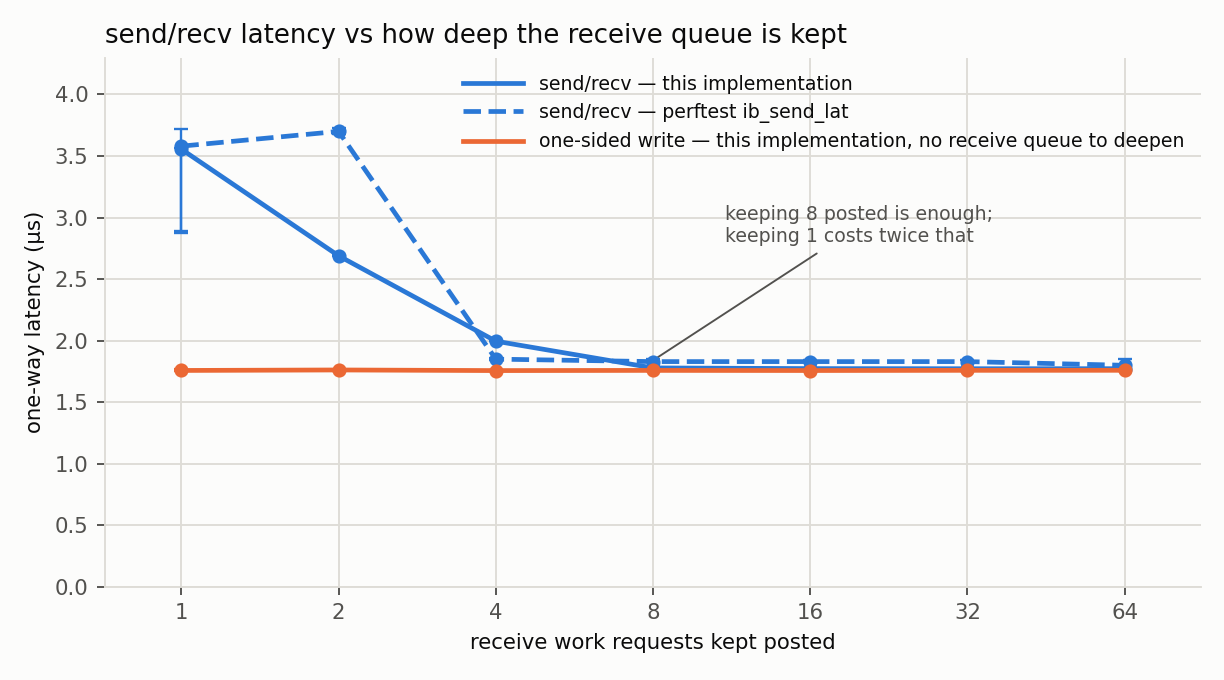
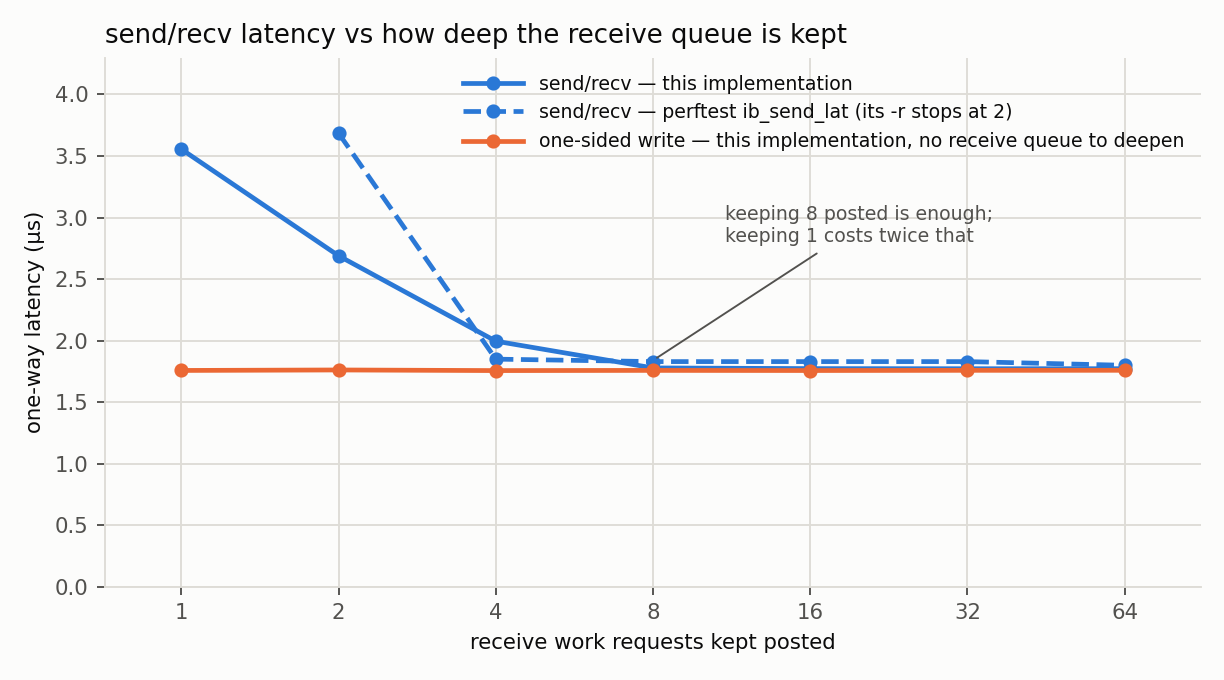
review phase1 result

diff --git a/scripts/plot_phase1.py b/scripts/plot_phase1.py
@@ -16,7 +16,6 @@ from collections import defaultdict
 import matplotlib
 matplotlib.use("Agg")
 import matplotlib.pyplot as plt
-from matplotlib.lines import Line2D
 from matplotlib.ticker import FuncFormatter
 
 CSV = sys.argv[1] if len(sys.argv) > 1 else "results/phase1_sweep.csv"
@@ -48,7 +47,15 @@ def load():
     for r in csv.DictReader(open(CSV)):
         if r["conn"] != "verbs":
             continue
-        key = (r["bench"], int(r["size"]), int(r["depth"] or 0))
+        depth = int(r["depth"] or 0)
+        # ib_send_lat rounds an odd -r up to the next even value before it runs
+        # ("WA for a bug when rx_depth is odd in SEND", perftest_parameters.c),
+        # so plot its points at the depth it actually used, not the one asked
+        # for. Confirmed on this link: -r 1 and -r 2 measure the same, as do
+        # 3 and 4, and 5 and 6.
+        if r["bench"] == "perftest_ib_send_lat" and depth % 2 == 1:
+            depth += 1
+        key = (r["bench"], int(r["size"]), depth)
         if r["median_us"]:
             # ours is a round trip, perftest already halved its own
             half = 1 if r["bench"].startswith("perftest") else 2
@@ -58,28 +65,16 @@ def load():
     return lat, bw
 
 
-def band(ax, xs, series, color, style, label, marker="o"):
-    """Median line with a min-max whisker at every point."""
-    med = [st.median(series[x]) for x in xs]
-    lo = [min(series[x]) for x in xs]
-    hi = [max(series[x]) for x in xs]
-    ax.errorbar(xs, med, yerr=[
-        [m - l for m, l in zip(med, lo)],
-        [h - m for m, h in zip(med, hi)],
-    ], color=color, linestyle=style, linewidth=2, marker=marker,
-        markersize=5, capsize=3, elinewidth=1, label=label, zorder=3)
-    return med
+def line(ax, xs, series, color, style, label):
+    """Median across repetitions. No error bar: run-to-run spread is under 1%
+    almost everywhere, and points were not all repeated the same number of
+    times, so a min-max whisker would have shown sample size more than noise."""
+    ax.plot(xs, [st.median(series[x]) for x in xs], color=color, linestyle=style,
+            linewidth=2, marker="o", markersize=5, label=label, zorder=3)
 
 
-def legend(ax, entries, **kw):
-    """errorbar hands the legend a short handle with a marker parked in the
-    middle of it, which hides the dash pattern — and dash vs solid is the only
-    thing separating this implementation from the reference. Draw the handles
-    explicitly instead."""
-    ax.legend(
-        handles=[Line2D([], [], color=c, linestyle=st_, linewidth=2, label=l)
-                 for c, st_, l in entries],
-        frameon=False, fontsize=8, handlelength=3.2, **kw)
+def legend(ax, **kw):
+    ax.legend(frameon=False, fontsize=8, handlelength=3.2, **kw)
 
 
 def dress(ax):
@@ -106,7 +101,7 @@ def fig_latency_vs_size(lat):
     ):
         series = {s: lat[(bench, s, 64)] for s in sizes if lat.get((bench, s, 64))}
         if series:
-            band(ax, sorted(series), series, color, style, label)
+            line(ax, sorted(series), series, color, style, label)
 
     ax.set_xscale("log", base=2)
     ax.set_yscale("log")
@@ -123,10 +118,7 @@ def fig_latency_vs_size(lat):
     ax.text(sizes[0] / 1.4, 0.52,
             "perftest sends messages this small inline; this implementation does not",
             fontsize=8, color=INK_2, va="bottom", ha="left")
-    legend(ax, [(BLUE, "-", "send/recv — this implementation"),
-                (BLUE, "--", "send/recv — ib_send_lat"),
-                (ORANGE, "-", "write — this implementation"),
-                (ORANGE, "--", "write — ib_write_lat")], loc="upper left")
+    legend(ax, loc="upper left")
 
     fig.tight_layout()
     out = f"{OUTDIR}/phase1-latency-vs-size.png"
@@ -141,19 +133,22 @@ def fig_latency_vs_rqdepth(lat):
     queue — the knob does not reach it, so those seven points are the same run
     repeated. That is worth plotting anyway: had the machine drifted during the
     sweep it would have moved too, so its flatness is what makes the drop in the
-    other two a real effect rather than an artefact."""
+    other two a real effect rather than an artefact.
+
+    The perftest line starts at 2 because its -r cannot be driven below that;
+    see the rounding note in load()."""
     SIZE = 4096
     depths = sorted({k[2] for k in lat if k[0] == "lat_send_recv" and k[1] == SIZE and k[2]})
 
     fig, ax = plt.subplots(figsize=(7.2, 4.0))
-    for bench, color, style in (
-        ("lat_send_recv", BLUE, "-"),
-        ("perftest_ib_send_lat", BLUE, "--"),
-        ("lat_rdma_write", ORANGE, "-"),
+    for bench, color, style, label in (
+        ("lat_send_recv", BLUE, "-", "send/recv — this implementation"),
+        ("perftest_ib_send_lat", BLUE, "--", "send/recv — perftest ib_send_lat (its -r stops at 2)"),
+        ("lat_rdma_write", ORANGE, "-", "one-sided write — this implementation, no receive queue to deepen"),
     ):
         series = {d: lat[(bench, SIZE, d)] for d in depths if lat.get((bench, SIZE, d))}
         if series:
-            band(ax, sorted(series), series, color, style, bench)
+            line(ax, sorted(series), series, color, style, label)
 
     ax.set_xscale("log", base=2)
     ax.set_xlabel("receive work requests kept posted")
@@ -168,10 +163,7 @@ def fig_latency_vs_rqdepth(lat):
     ax.annotate("keeping 8 posted is enough;\nkeeping 1 costs twice that",
                 xy=(8, 1.84), xytext=(11, 2.8), fontsize=8, color=INK_2,
                 arrowprops=dict(arrowstyle="-", color=INK_2, linewidth=0.8))
-    legend(ax, [(BLUE, "-", "send/recv — this implementation"),
-                (BLUE, "--", "send/recv — perftest ib_send_lat"),
-                (ORANGE, "-", "one-sided write — this implementation, no receive queue to deepen")],
-           loc="upper right")
+    legend(ax, loc="upper right")
 
     fig.tight_layout()
     out = f"{OUTDIR}/phase1-latency-vs-rq-depth.png"

diff --git a/README.md b/README.md
@@ -2,7 +2,7 @@
 
 A from-scratch implementation of RDMA communication primitives, transport abstractions, and collective operations — targeting the infrastructure layer of distributed AI training and inference systems.
 
-Built with `libibverbs` and `rdma_cm` (no wrappers, no frameworks), implementing two end-to-end workloads from raw verbs upward: a mini NCCL-style ring all-reduce and a vLLM-style remote KV cache (prefill via RDMA write, decode via RDMA read).
+Built with `libibverbs` and `rdma_cm` (no wrappers, no frameworks), implementing two end-to-end workloads from raw verbs upward: a ring all-reduce (chunked reduce-scatter then all-gather, the algorithm NCCL uses), and a remote memory pool handed out in fixed-size slots that clients fill by RDMA write and read back one-sidedly — the transfer path a disaggregated KV cache runs on.
 
 Tested on a real RDMA home lab: two ConnectX-4 NICs, RoCEv2, bare metal, connected back-to-back and isolated into separate network namespaces so each port behaves like an independent host.
 
@@ -11,7 +11,7 @@ Tested on a real RDMA home lab: two ConnectX-4 NICs, RoCEv2, bare metal, connect
 - [x] **Phase 1** — RDMA verbs foundation: RC queue pairs, memory regions, completion queues, send/recv, write, read. Connections come up either through librdmacm or through the INIT → RTR → RTS state machine written out by hand, selectable at runtime; the data path is shared. An earlier round used raw verbs only and had to abandon it — [`docs/raw-verbs-evolution.md`](docs/raw-verbs-evolution.md) is why, and why the hand-written path came back.
 - [x] **Phase 2** — Transport Abstraction Layer (RDMA + TCP backends via rdma_cm, send/recv + write benchmarks; TCP write omitted — no one-sided primitive)
 - [x] **Phase 3** — Ring All-Reduce (chunked pipeline, ring reduce-scatter + all-gather, RDMA + TCP backends)
-- [x] **Phase 4** — Remote KV Cache (slab allocator over single MR, ctrl/data plane separation, prefill via RDMA write, decode via RDMA read)
+- [x] **Phase 4** — Remote slot pool (slab allocator over a single MR; alloc/free on a control channel, data by one-sided write and read, so the server's CPU is not in the data path)
 - [ ] **Phase 5** — Bare-metal RoCEv2 benchmark (in progress). Re-running the Phase 1–4 benchmarks on real ConnectX-4 hardware over RoCEv2.
 
 ## Hardware & Test Environment
@@ -53,14 +53,17 @@ Step-by-step, and what each step is guarding against:
 ## Architecture
 
 ```
-common/            timing, logging, benchmark stats and CLI shared by every phase
+common/            timing, logging, benchmark stats; the CLI and config the
+                   Phase 1 benchmarks share
 phase1_verbs/      C. RC queue pairs, memory regions, send/recv/write/read, poll.
                    Two ways to bring a connection up — librdmacm, or the
                    INIT→RTR→RTS state machine by hand — behind one call shape.
 phase2_transport/  C++17. One Transport interface over RDMA and TCP backends.
 phase3_collective/ C++17. Ring all-reduce: chunked reduce-scatter + all-gather.
-phase4_kv_cache/   C++17. Slab-allocated remote KV store; prefill writes, decode reads.
-python_bindings/   pybind11 wrapper around Transport, torch.Tensor aware.
+phase4_kv_cache/   C++17. Slab allocator over one MR. Alloc/free control plane,
+                   one-sided data plane; the server is a passive target.
+python_bindings/   pybind11 wrapper around Transport. Registers any buffer-protocol
+                   object (numpy, torch) for RDMA without copying it.
 scripts/           bring-up, benchmark sweep, plotting.
 ```
 
@@ -98,31 +101,40 @@ the same send and receive path.
 
 ## Benchmark Results
 
-Median of five runs per point, with the equivalent perftest tool run at the
-same points on the same link. Latency is one-way throughout: these benchmarks
-report a round trip, perftest halves it before printing, so the two are
-normalised to match.
+Phase 1 only. Phases 2–4 have not been re-run on this hardware yet — that is
+what Phase 5 is.
+
+Median of at least five runs per point, with the equivalent perftest tool run
+at the same points on the same link. Latency is one-way throughout: these
+benchmarks time a round trip, perftest halves it before printing.
 
 - **Latency within 4% of perftest from 256 B up**, bandwidth within 2%
   wherever the link is the bottleneck.
-- **Receive queue depth doubles two-sided latency** — one work request posted
-  instead of eight costs 1.78 → 3.55 µs one-way. perftest degrades by the same
-  amount, so this is the hardware, not the implementation.
-- **One-sided is not the faster one** — 0–8%, and none of it at 1 MB. What it
-  buys is that the far side posts nothing and reaps nothing: CPU, not µs.
+- **Receive queue depth decides how often a slow path gets hit** — one work
+  request posted instead of eight costs 1.78 → 3.56 µs one-way. perftest moves
+  the same way, 1.83 → 3.69: this is the hardware, not the implementation.
+- **One-sided is not the faster one** — 3% at 64 B here, 9% for perftest, and
+  nothing at all by 1 MB. What it buys is that the far side posts no work
+  requests and reaps no completions: CPU, not µs.
 
 ### Receive queue depth
 
 ![latency vs receive queue depth](results/phase1-latency-vs-rq-depth.png)
 
 An arriving message needs a receive work queue entry before the NIC can place
-it. Keep only one posted and the NIC has to go fetch it, on the critical path,
-every time. Eight is enough; past that the curve is flat.
+it. With one posted the NIC often has to go fetch it while the packet is already
+arriving; with eight it almost never does. Past eight the curve is flat.
 
-The one-sided line is there as a check on the machine rather than a comparison
-— it posts no receive work requests, so this knob cannot reach it, and its
-flatness is what says the drop beside it is a real effect and not drift during
-the sweep.
+Nothing gets slower — you just hit the slow case more often. At depth 8 the p99
+is 3.60 µs — about what the median is at depth 1. One slow path, two
+frequencies. It is also why depth 1 is the only point whose median wobbles from
+run to run.
+
+perftest's `-r` rounds odd values up, so its line starts at 2.
+
+The one-sided line posts no receive work requests at all, so this knob cannot
+reach it, and its flatness is what says the drop beside it is a real effect
+rather than drift during the sweep.
 
 ### Latency and bandwidth against perftest
 
@@ -148,7 +160,7 @@ equivalently there, so that range is left out rather than claimed.
 ### Connection setup mode
 
 librdmacm and the hand-written INIT → RTR → RTS path are indistinguishable —
-3.54 vs 3.54 µs send/recv, 92.04 vs 92.03 Gbps — which is the expected answer,
+1.77 vs 1.77 µs send/recv, 92.04 vs 92.03 Gbps — which is the expected answer,
 since setup happens once, before the loop being timed. The result worth having
 is that the state machine is a drop-in for the library, not that it is quicker.
 
@@ -162,4 +174,5 @@ be an error in the measurement. The trail is in
 ## Toolchain
 
 - **OS**: Ubuntu 22.04 LTS
-- **Compiler**: GCC 7+, `-std=c11` (Phase 1), `-std=c++17` (Phase 2+)
+- **Compiler**: GCC 11.4, `-std=c11` (Phase 1), `-std=c++17` (Phase 2+)
+- **Build**: CMake 3.16+

diff --git a/docs/benchmark-notes.md b/docs/benchmark-notes.md
@@ -35,11 +35,12 @@ arriving message needs a receive WQE before the NIC can place the payload; with
 one just-posted WR the NIC has to fetch it from host memory, and that fetch sits
 on the critical path.
 
-Pre-posting a batch: **7.81 → 3.89 µs RTT**, within 5% of perftest.
+Pre-posting a batch: **7.81 → 3.89 µs RTT**, within about 5% of perftest.
 
 The confirmation was worth more than the fix. perftest exposes the same setting
 as `-r`, so it could be swept too — and it slows down by the same amount,
-1.85 → 3.57 µs one-way at depth 1. Whatever causes this sits below both
+1.83 → 3.69 µs one-way at the shallow end (its `-r` rounds odd values up, so
+two is as low as it goes). Whatever causes this sits below both
 programs, in the driver or the card. The one-sided write benchmark, which posts
 no receive work requests at all, does not move.
 
@@ -49,11 +50,12 @@ no receive work requests at all, does not move.
   traffic at that size — all pipeline fill, no steady state. Scaling so every
   point moves 256 MB moved perftest further than it moved this implementation
   (19.9 → 28.7 Gbps): the short window had been penalising the reference.
-- **perftest given `-t 16` to match `--depth 16`.** It pairs that with its own
-  `cq_mod = 100`, and 16 outstanding against a completion every hundred is a
-  corner it handles badly. Left at its own default it does 62 Gbps against this
-  implementation's 50 — it wins. Sub-16 KB bandwidth is now reported as not
-  comparable rather than as a result.
+- **perftest given `-t 16` to match `--depth 16`.** It pairs that setting with
+  its own `cq_mod = 100`, and sixteen writes outstanding against a completion
+  every hundred is a corner it handles badly. Run each at its own best instead —
+  perftest at its default depth, this implementation at its maximum of 127 — and
+  at 1 KB perftest does **71.2 Gbps against 62.9**. It wins by 13%. Sub-16 KB
+  bandwidth is now reported as not comparable rather than as a result.
 - **2.2% run-to-run spread, and one 64 KB point swinging 36%**, from a
   `schedutil` governor parking busy-waiting cores at 1.2 GHz. Small messages are
   message-rate bound, so that is exactly where it lands; large transfers are
@@ -82,14 +84,19 @@ perftest has the same barrier, with the reason in the comment
 the next batch. So one setting controlled two things: how many writes could be
 in flight, and how often the pipeline drained to empty. And draining is not
 free — a send completion only arrives once the peer acknowledges. At depth 2
-that is a stall every two messages:
+that is a stall every two messages. At 64 KB:
 
 | depth | before | after | `ib_write_bw` |
 |---|---|---|---|
-| 1 | 59.22 | 59.18 | 58.00 |
-| 2 | 70.77 | **92.40** | 92.39 |
-| 4 | 80.38 | 92.36 | 92.49 |
-| 16 | 88.84 | 92.12 | 92.47 |
+| 1 | 59.22 | 59.30 | 59.53 |
+| 2 | 70.77 | **92.21** | 92.54 |
+| 4 | 80.38 | 92.30 | 92.54 |
+| 16 | 88.84 | 92.03 | 92.54 |
+
+The "after" column and the perftest column are from
+[`results/phase1_sweep.csv`](../results/phase1_sweep.csv); "before" is a run
+from the same session with the old loop, kept because there is nothing else to
+compare against.
 
 Posting against a window and reaping without blocking — what perftest's
 `run_iter_bw` does — closed it. The 16 KB point in the size sweep, which had
